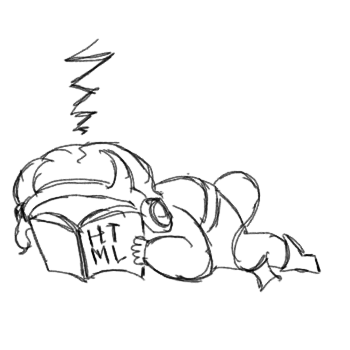
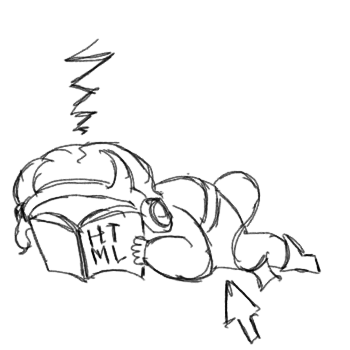
updated little guys ; changed alt text to click me

Changed region(s): [[0.6286, 0.8, 0.7429, 1.0]]

diff --git a/index.html b/index.html
@@ -8,14 +8,14 @@
     <title> Portfolio 2025 </title>
     <link rel="icon" 
             type="image/png" 
-            sizes="32x32" href="./images/icon.png">
+            sizes="32x32" href="./images/lay_2.png">
 
     <link rel="stylesheet" href="CSS/style.css">
 </head>
         <div class = "bar box">
                 Amber Martin - Portfolio
                 <div class="image-box image-bar">
-                        <img src="/images/decor/pencil_1.png" alt="pencilImg" id="pencil">
+                        <img src="/images/decor/pencil_1.png" alt="Click Me" id="pencil">
                 </div>
         </div>
         <div class="card box">
@@ -34,7 +34,7 @@
                         </div>
                         <div class="box">
                                 <div class= "image-box image-about">
-                                        <img src="/images/decor/lay_1.png" alt="layImg" id="lay"> 
+                                        <img src="/images/decor/lay_1.png" alt="Click me" id="lay"> 
                                 </div>
                         </div>
                 </div>
@@ -90,6 +90,11 @@
                                         It's just information at the end of the day and I REALLY like making lists of instructions. <br>
 
                                 </div>
+                                <div class="break">                       
+                                        <div class= "image-box image-work">
+                                        <img src="/images/decor/ded_1.png" alt="Click me" id="ded"> 
+                                        </div>
+                                </div> 
 
                         </div>
                 </div>

diff --git a/CSS/style.css b/CSS/style.css
@@ -143,6 +143,14 @@ html{
     margin-top:auto;
     margin-bottom:auto;
 }
+.image-work{
+    display:block;
+    height:200px;
+    width:200px;
+    margin-left: -700px;
+    margin-top:-130px;
+}
+
 
 #img-double{
     height:49%;
@@ -186,8 +194,19 @@ html{
         height:100%;
         width:100%;
     }
+    .image-bar{
+        height:70px;
+        width:70px;
+        margin-top: -42px;
+    }
+    .image-work{
+        margin-left: -360px;
+        margin-top: -95px;
+        height:150px;
+        width:150px;
+    }
     #img-double{
-    height:100%;
-    width:100%;
-}
+        height:100%;
+        width:100%;
+    }
 }

diff --git a/script.js b/script.js
@@ -25,3 +25,17 @@ lay.addEventListener('click', function(){
     }
 
 });
+
+const ded = document.getElementById('ded'); //get image
+let toggle2 = true;
+
+ded.addEventListener('click', function(){
+    toggle2 = !toggle2;
+    if(toggle2)
+    {
+        ded.src = 'images/decor/ded_1.png';
+    }else{
+        ded.src = 'images/decor/ded_2.png';
+    }
+
+});
